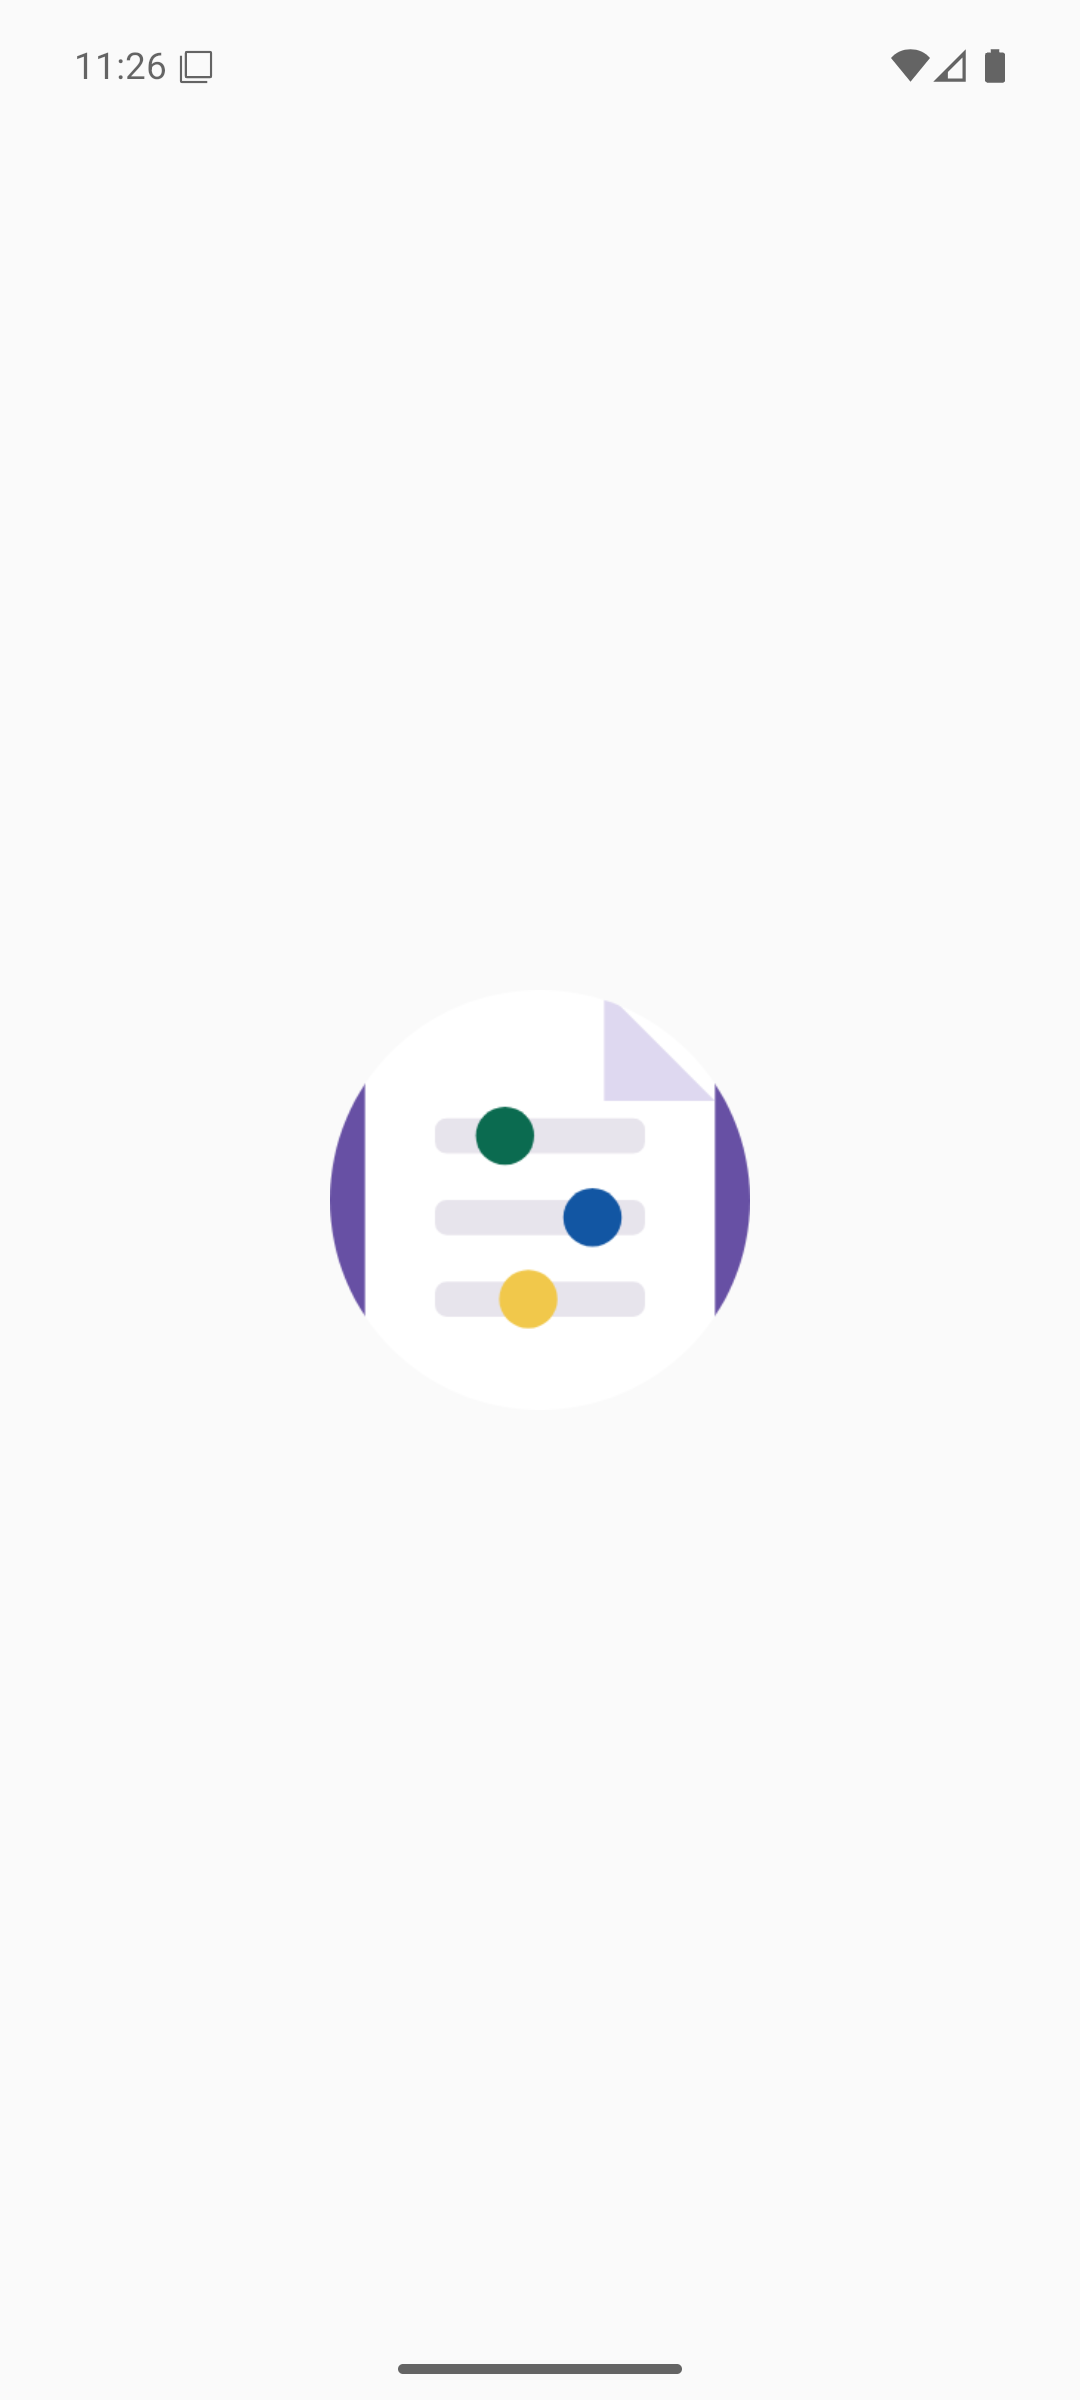
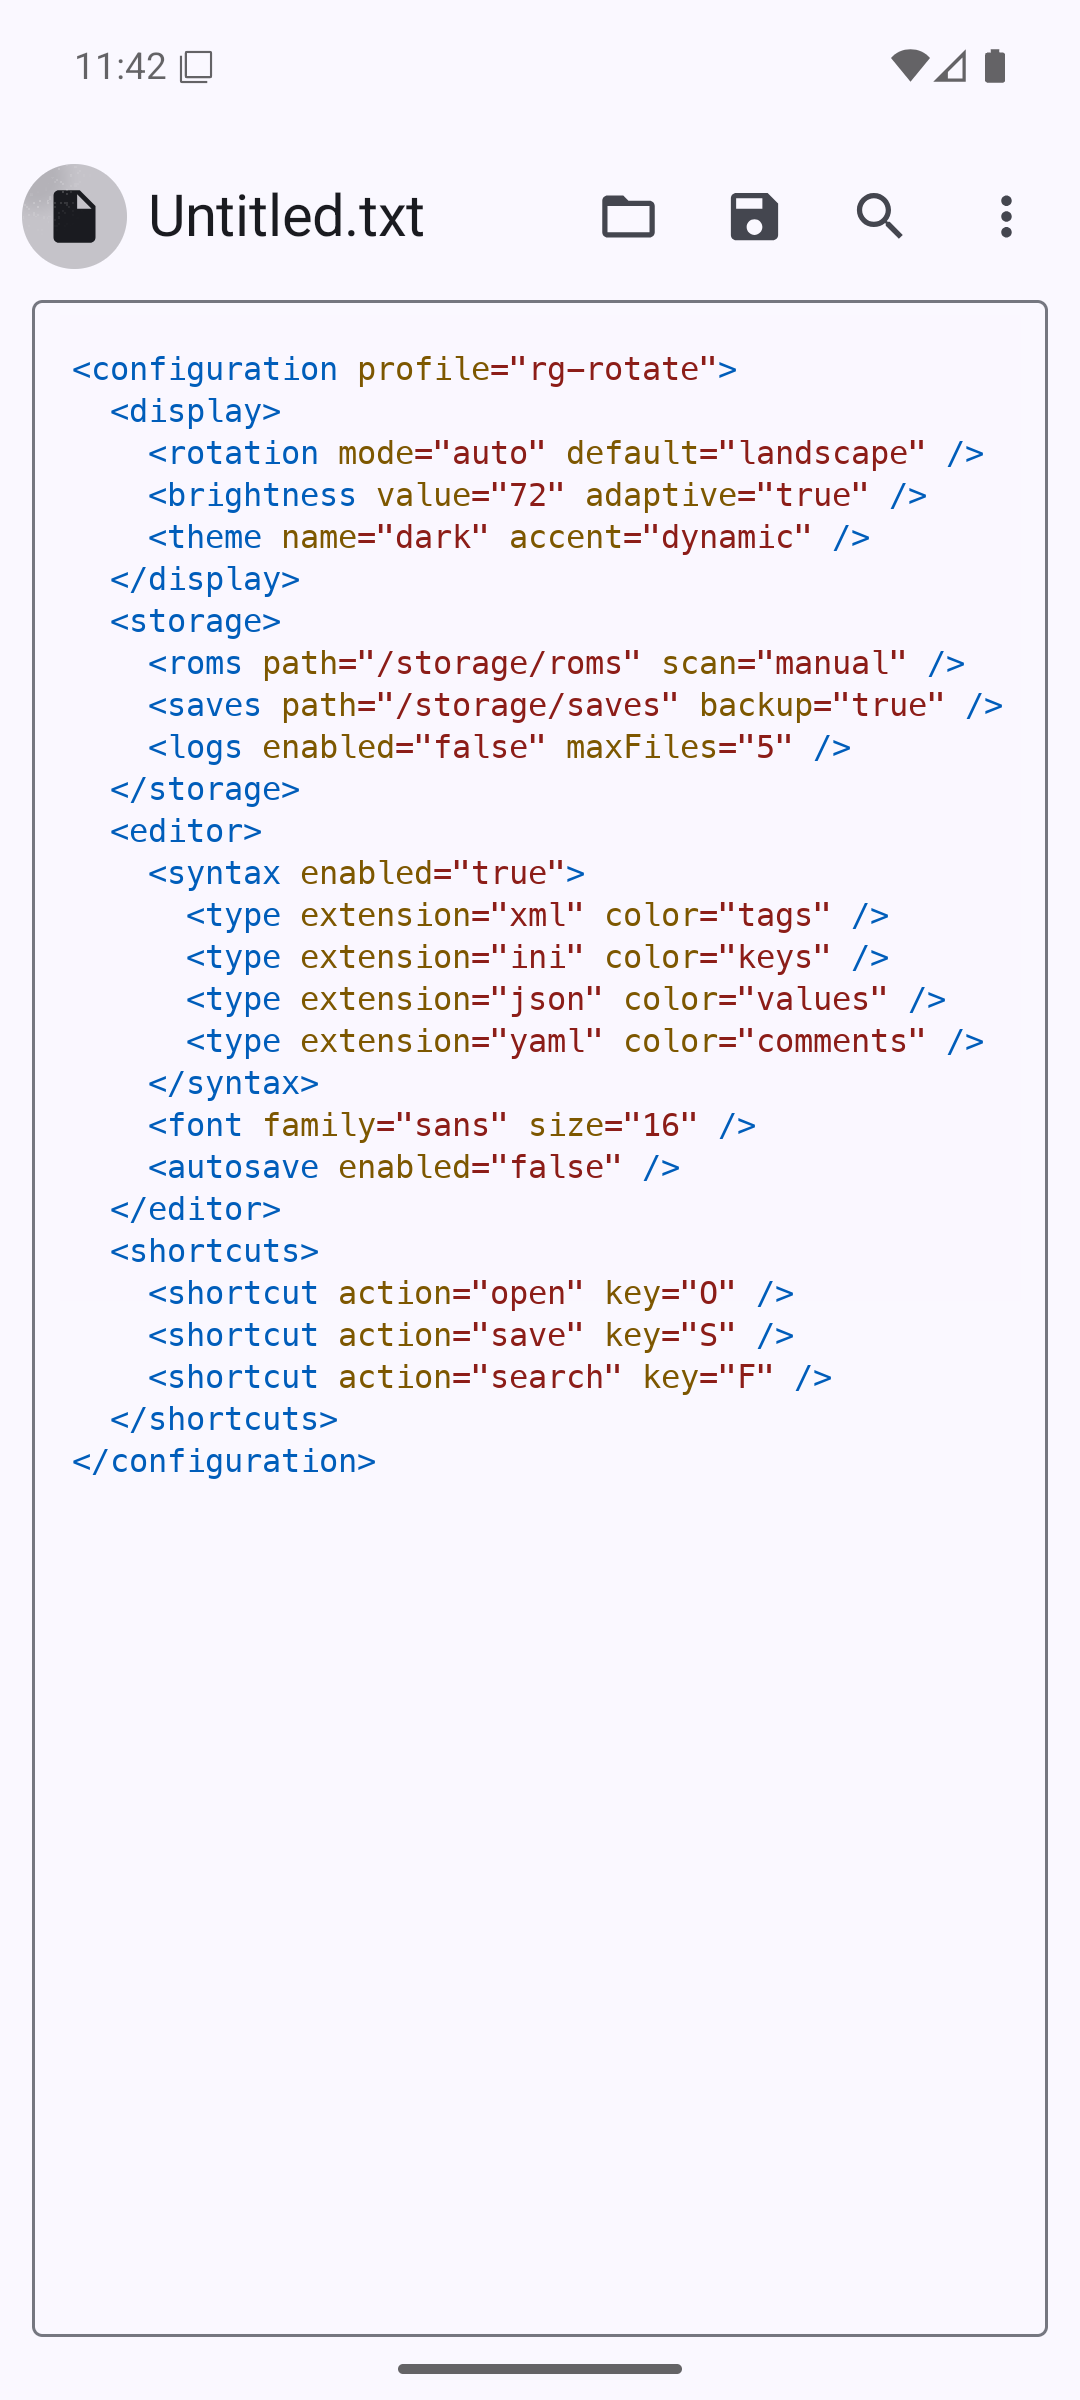
Update README screenshot with XML example

diff --git a/app/src/main/java/jp/komagata/tweektext/MainActivity.kt b/app/src/main/java/jp/komagata/tweektext/MainActivity.kt
@@ -113,9 +113,11 @@ private fun EditorApp() {
     var searchOpen by remember { mutableStateOf(false) }
     var replaceOpen by remember { mutableStateOf(false) }
     var pendingSaveAfterCreate by remember { mutableStateOf(false) }
-    val syntaxMode = remember(fileName) { fileName.syntaxMode() }
 
     fun currentText(): String = editorState.text.toString()
+    val syntaxMode = remember(fileName, currentText()) {
+        fileName.syntaxMode().takeIf { it != SyntaxMode.Plain } ?: currentText().syntaxModeFromContent()
+    }
 
     fun setEditorText(text: String) {
         editorState.edit {
@@ -421,6 +423,20 @@ private fun String.syntaxMode(): SyntaxMode {
             lowerName.endsWith(".conf") ||
             lowerName.endsWith(".properties") ||
             lowerName.endsWith(".env") -> SyntaxMode.Ini
+        else -> SyntaxMode.Plain
+    }
+}
+
+private fun String.syntaxModeFromContent(): SyntaxMode {
+    val trimmed = trimStart()
+    if (trimmed.isBlank()) return SyntaxMode.Plain
+    return when {
+        trimmed.startsWith("<") -> SyntaxMode.Xml
+        trimmed.startsWith("{") || trimmed.startsWith("[") -> SyntaxMode.Json
+        lineSequence().take(12).any { line ->
+            val trimmedLine = line.trimStart()
+            trimmedLine.isNotEmpty() && !trimmedLine.startsWith("#") && Regex("""^[A-Za-z0-9_.-]+\s*[:=]""").containsMatchIn(trimmedLine)
+        } -> SyntaxMode.Yaml
         else -> SyntaxMode.Plain
     }
 }